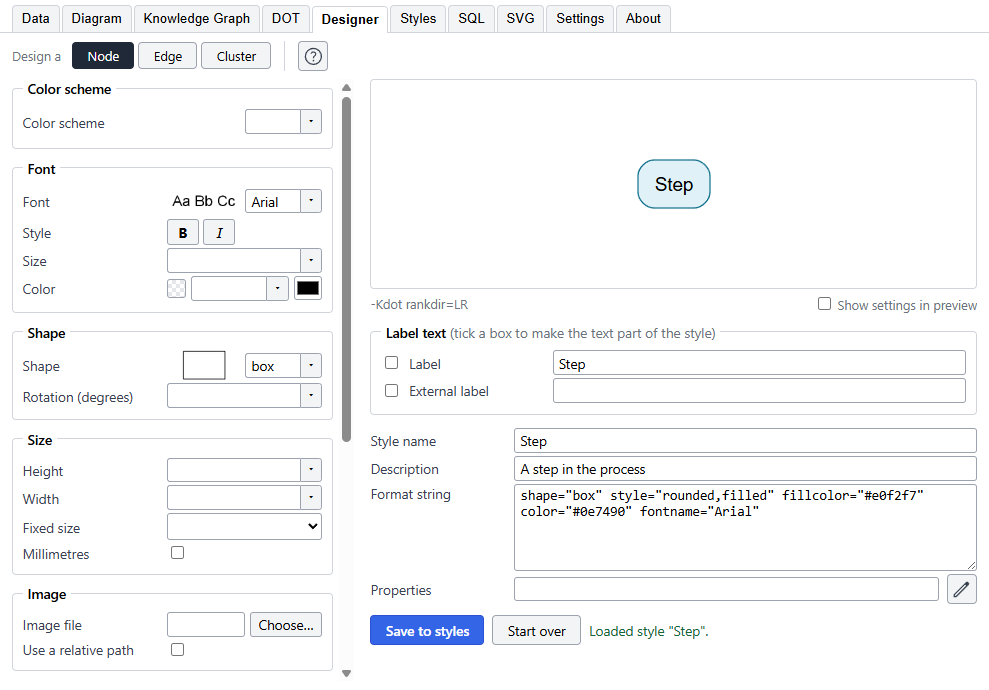
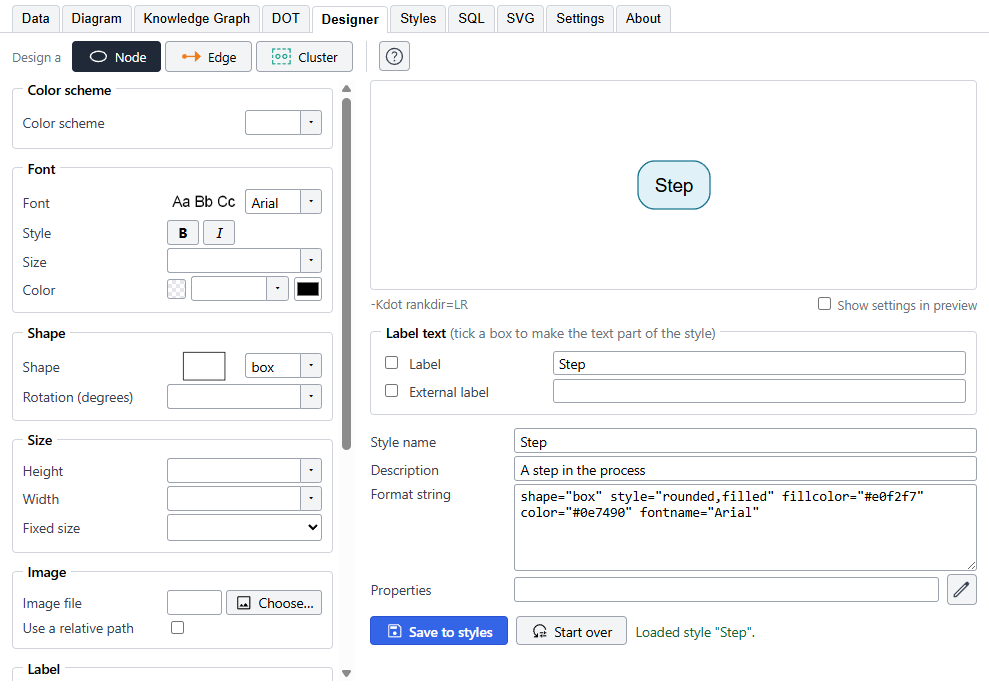
Add Units and packing and What's new, retake the screen prints, and point Download at beta 2

diff --git a/content/docs/units-and-packing/index.md b/content/docs/units-and-packing/index.md
@@ -1,0 +1,77 @@
+# Units and packing
+
+Two things that were settled in the Excel tool by one box and one corner of the Designer are now settings of the whole project: whether lengths are in
+inches or millimeters, and how the separate parts of a graph are packed.
+
+## Units
+
+Graph Modeler shows and takes a length in **inches** or **millimeters** (spelled millimetres in most countries other than the United States, and the app
+follows your region). It is used wherever you choose or type a length:
+
+- the **Height** and **Width** of a node in the [Designer](/docs/designer/);
+- the **space between separate parts** of a graph, under [Settings](/docs/settings/), in the options of the layout; and
+- the **Margin** between packed clusters in a cluster style for the osage layout.
+
+There are two settings, in the **Units** group of the Settings tab:
+
+| Setting | Where it is kept | What it does |
+| --- | --- | --- |
+| **Units for this project** | In the project file. | The unit the lists and boxes use for this project. A file says which unit its author worked in, so a colleague who opens it sees what you saw. |
+| **Units for new projects** | On this computer, not in the project. | The unit a new project starts in. You set it once and it is remembered. The first time the app runs it is chosen from your region: inches in the United States, Liberia and Myanmar, millimeters elsewhere. |
+
+If you open a file whose unit is not the one you prefer, the file's unit is used, and a notice under the project name offers to **switch** the project to yours or
+to **keep** it. Switching can be undone. Opening a file never marks it as changed. A file with no unit in it, such as one saved before there were units or one exported from
+the Excel tool, takes your preference, and keeps it from then on.
+
+### What changes, and what does not
+
+A unit decides only how a number is shown and typed. Graphviz works in inches for the size of a node, and in whole points (72 to the inch) for the space between
+packed parts, and that is what the project file and the DOT hold, whichever unit you work in. So:
+
+- Changing the unit of a project does not change a graph. A node 0.5 inches high is 12.7 millimeters high, and the Designer converts the number it shows.
+- A length typed in millimeters is written to the format in inches, to four decimal places.
+- A gap between packed parts is a whole number of points, so it can be as much as 0.18 millimeter from what you chose. A gap that is a whole number of
+  millimeters is shown as that number.
+
+## Packing
+
+A graph often falls into **parts**, groups of nodes joined to each other and to nothing else. Graphviz lays out each part by itself and then **packs** them together.
+Every layout except **patchwork**, which draws a treemap, can do this. In the **dot** layout the parts sit side by side in a row until you ask for packing, and the other layouts pack
+the parts unless told otherwise.
+
+Under **Settings**, in **Options for the** *layout* **layout**, three settings control it:
+
+| Setting | What it does |
+| --- | --- |
+| **Space between separate parts (pack)** | The gap between the parts, listed in your unit from 0 to 2 inches in eighths, or from 0 to 50 millimeters. In the dot layout choosing a gap turns packing on. The other layouts pack already, and this sets the gap. Left at the default, Graphviz uses 8 points. |
+| **Pack mode** | How the parts are fitted together, below. Choosing one turns packing on, whether or not a gap is chosen. |
+| **Array packing options** | Used when the pack mode is **array**, below. |
+
+The gap and the mode do not depend on each other. Either alone is enough.
+
+### Pack modes
+
+- **node** (the default): the parts are packed by the shapes of their nodes and edges, as close as they can be without overlapping.
+- **clust**: the clusters at the top level are kept whole.
+- **graph**: each part is treated as a box, the smallest rectangle that holds it.
+- **array**: the parts are placed in a grid, a row at a time. By default the number of columns is about the square root of the number of parts, the biggest part comes first,
+  and a part that is smaller than its cell is centered.
+
+The **array packing options** are letters and a number, written one after another:
+
+| Write | Meaning |
+| --- | --- |
+| `c` | Fill the columns first instead of the rows. |
+| `t` or `b` | Line the parts up along the top or the bottom of their cells. |
+| `l` or `r` | Line the parts up along the left or the right. |
+| `u` | Order the parts by the `sortv` attribute you give each one, with zero for a part that has none, instead of by size. |
+| `i` | Keep the order the parts were written in. |
+| a number | How many parts to a row, or to a column if `c` is given. |
+
+For example `c3tl` fills columns first, three to a column, with the parts aligned to the top and the left.
+
+### The osage layout and clusters
+
+The osage layout packs the inside of each cluster as well as the whole graph, so it is the one layout that reads these settings in a cluster. In the Designer, a cluster style
+made for osage has a **Packing (osage layout)** group with the **Margin** between the packed parts and the **Pack mode**, in the same units. Every other layout ignores them in a cluster,
+and uses the settings of the whole graph.

diff --git a/content/download/index.md b/content/download/index.md
@@ -7,16 +7,16 @@ warn the first time you open it. Using it while it is in testing is free; the [l
 
 ## Get the beta
 
-This is version 0.1.0, beta 1.
+This is version 0.1.1, beta 2. See [what is new](/docs/changelog/) since beta 1.
 
 | Your computer | Download | Size |
 | --- | --- | --- |
-| **Windows** 10 or 11, 64-bit | [Graph-Modeler-Setup-0.1.0.exe](https://github.com/graphmodeler/graphmodeler-releases/releases/download/v0.1.0-beta.1/Graph-Modeler-Setup-0.1.0.exe) | 121 MB |
-| **macOS** 13 or later, Intel or Apple silicon | [Graph-Modeler-0.1.0-universal.dmg](https://github.com/graphmodeler/graphmodeler-releases/releases/download/v0.1.0-beta.1/Graph-Modeler-0.1.0-universal.dmg) | 233 MB |
-| **Linux**, 64-bit, Debian, Ubuntu and relatives | [graph-modeler_0.1.0_amd64.deb](https://github.com/graphmodeler/graphmodeler-releases/releases/download/v0.1.0-beta.1/graph-modeler_0.1.0_amd64.deb) | 101 MB |
-| **Linux**, 64-bit, anything else | [Graph-Modeler-0.1.0.AppImage](https://github.com/graphmodeler/graphmodeler-releases/releases/download/v0.1.0-beta.1/Graph-Modeler-0.1.0.AppImage) | 128 MB |
+| **Windows** 10 or 11, 64-bit | [Graph-Modeler-Setup-0.1.1.exe](https://github.com/graphmodeler/graphmodeler-releases/releases/download/v0.1.1-beta.2/Graph-Modeler-Setup-0.1.1.exe) | 121 MB |
+| **macOS** 13 or later, Intel or Apple silicon | [Graph-Modeler-0.1.1-universal.dmg](https://github.com/graphmodeler/graphmodeler-releases/releases/download/v0.1.1-beta.2/Graph-Modeler-0.1.1-universal.dmg) | 233 MB |
+| **Linux**, 64-bit, Debian, Ubuntu and relatives | [graph-modeler_0.1.1_amd64.deb](https://github.com/graphmodeler/graphmodeler-releases/releases/download/v0.1.1-beta.2/graph-modeler_0.1.1_amd64.deb) | 100 MB |
+| **Linux**, 64-bit, anything else | [Graph-Modeler-0.1.1.AppImage](https://github.com/graphmodeler/graphmodeler-releases/releases/download/v0.1.1-beta.2/Graph-Modeler-0.1.1.AppImage) | 128 MB |
 
-The [release page](https://github.com/graphmodeler/graphmodeler-releases/releases/tag/v0.1.0-beta.1) holds the same files and a list of
+The [release page](https://github.com/graphmodeler/graphmodeler-releases/releases/tag/v0.1.1-beta.2) holds the same files and a list of
 checksums, so that you can check what you downloaded. Install [Graphviz](#install-graphviz) too, to see pictures. Check the
 [system requirements](#system-requirements) first: Graph Modeler needs a 64-bit computer.
 
@@ -26,12 +26,12 @@ checksums, so that you can check what you downloaded. Install [Graphviz](#instal
 - **macOS.** Open the `.dmg` and drag Graph Modeler to Applications. The first time you open it, macOS refuses. Open **System Settings, Privacy &
   Security**, scroll to the message about Graph Modeler, and choose **Open Anyway**.
 - **Linux, the `.deb`** (Debian, Ubuntu and relatives).
-  - Install it with `sudo apt install ./graph-modeler_0.1.0_amd64.deb`.
+  - Install it with `sudo apt install ./graph-modeler_0.1.1_amd64.deb`.
   - apt may end with a note that the file "couldn't be accessed by user `_apt`". That is harmless. It only means apt read the file as root,
     because your Downloads folder is private.
   - The program appears in the Programming group of the applications menu.
 - **Linux, the AppImage.**
-  - Make it executable with `chmod +x Graph-Modeler-0.1.0.AppImage`, then run it.
+  - Make it executable with `chmod +x Graph-Modeler-0.1.1.AppImage`, then run it.
   - A recent Ubuntu also needs `sudo apt install libfuse2t64`.
 
 ### Taking it off again

diff --git a/content/docs/changelog/index.md b/content/docs/changelog/index.md
@@ -1,0 +1,37 @@
+# What's new
+
+What each version of Graph Modeler changed, newest first. Graph Modeler is in beta, so the version numbers are small and the changes are many. The installers for each are on the
+[Download](/download/) page. Where a change is explained on a page of its own, there is a link.
+
+## Version 0.1.1, beta 2 (October 27, 2026)
+
+**New**
+
+- **A warning before you lose work.** Closing the window, by Exit, the close button or Alt+F4, when the project has changes that are not saved now asks whether to
+  **Save and close**, **Close without saving** or **Cancel**. If you cancel the Save As window that Save and close opens, the app stays open.
+- **Units.** Lengths are shown and typed in inches or millimeters, as a setting of the project and a preference of yours for new projects. The unit is chosen from your region the
+  first time, and the word is spelled the way your region spells it. The Millimetres box of the Designer is gone, because the project now holds the unit. See
+  [Units and packing](/docs/units-and-packing/#units).
+- **Packing for every layout except patchwork.** The space between separate parts of a graph and the pack mode are settings of the whole graph, with all four pack modes
+  (node, clust, graph and array) and the options of array packing. The gap is listed in your unit, and goes up to 2 inches or 50 millimeters. See
+  [Units and packing](/docs/units-and-packing/#packing).
+- **Icons before the words on buttons.** The Designer's Node, Edge and Cluster switch has a small picture of each, in the colors of the Kind column on the Data tab, and so do the
+  buttons that save, cancel, copy, choose a file, start over and answer the notice about units. The words are still there.
+- **System requirements** on the [Download](/download/#system-requirements) page: a 64-bit computer, and macOS 13 or later.
+
+**Changed**
+
+- **The pictures for the head port and the tail port** are redrawn as SVG, so they stay sharp on any screen: a circle in the middle, with an arrow that arrives at one of its compass
+  points, or leaves from it. They are listed clockwise from north, then the center.
+- **The pack mode and the gap** in a cluster style for the osage layout use your unit, and the pack mode offers node and graph as well as clust and array.
+
+**Fixed**
+
+- The pack modes `node` and `graph` made Graphviz stop with a syntax error, because DOT keeps those words for itself. They are written in quotes now.
+- A style restored into the Designer in millimeters is converted, so its height and width read the same size.
+
+## Version 0.1.0, beta 1 (October 26, 2026)
+
+The first beta, for Windows, macOS and Linux. It holds the Data, Diagram, Knowledge Graph, DOT, Designer, Styles, SQL, SVG, Settings and About tabs, builds the SQL rows from
+Excel and LibreOffice workbooks, CSV and TSV files, Access databases and SQLite databases, and publishes pictures, Knowledge Graphs and DOT files. It opens files exported from the
+Excel tool. See [Download](/download/) for what it runs on.

diff --git a/content/docs/designer/index.md b/content/docs/designer/index.md
@@ -9,7 +9,7 @@ lets you choose them from menus, shows the result as you go, and writes the form
 
 ## Using it
 
-1. Choose what you are designing with **Node**, **Edge** or **Cluster** at the top. Only the choices that apply to it are shown.
+1. Choose what you are designing with **Node**, **Edge** or **Cluster** at the top, each with a small picture of what it is. Only the choices that apply to it are shown.
 2. Pick values on the left. The preview on the right is drawn by Graphviz after every change, and the **Format string** below
    it shows what is being written.
 3. Give the style a **Style name** and, if you like, a **Description**.
@@ -31,6 +31,11 @@ The choices are in groups, and the ones that do not apply to what you are design
   from a set, such as one of the ColorBrewer palettes, so a diagram can use a palette from one choice.
 - **Shape** and **Font** show a small picture of each choice in their lists. The fonts are the ones installed on your computer; see
   [Fonts](/docs/fonts/) for how they are found and what to do after installing one.
+- **Height** and **Width** take a length in the unit of the project, inches or millimeters, which is set under [Settings](/docs/settings/). See
+  [Units and packing](/docs/units-and-packing/#units).
+- **Head port** and **Tail port** show a picture of each choice: a circle for the node and an arrow that arrives at, or leaves from, one of its compass points. They are listed clockwise
+  from north, then the center, and the default, `_`, leaves the choice to Graphviz.
+- **Packing (osage layout)** is offered for a cluster when the layout is osage. See [Units and packing](/docs/units-and-packing/#the-osage-layout-and-clusters).
 - **Position** choices, such as where a label sits in a cluster, are buttons with an icon: vertical position first, then
   horizontal. A second press on the chosen button clears it.
 - **Properties** are facts about the style that do not change the drawing but go into the Knowledge Graph.

diff --git a/content/docs/settings/index.md b/content/docs/settings/index.md
@@ -24,6 +24,17 @@ This group is named after the layout in use, such as "Options for the dot layout
 
 - **dot:** edges between clusters, the newer ranking, how clusters are ranked, and the order of the edges out of or into a node.
 - **neato, fdp and sfdp:** how overlapping nodes are moved apart, the dimensions, and for some of them the mode, the model and the smoothing.
+- **Every layout except patchwork:** the **space between separate parts**, the **pack mode** and the **array packing options**, which say how the parts of a graph that are not joined are fitted
+  together. See [Units and packing](/docs/units-and-packing/#packing).
+
+## Units
+
+| Setting | What it does |
+| --- | --- |
+| **Units for this project** | Inches or millimeters, for the lists and boxes that take a length. Saved in the project file. |
+| **Units for new projects** | The unit a new project starts in. Kept on this computer, not in the project, and chosen from your region the first time. |
+
+See [Units and packing](/docs/units-and-packing/#units) for what changes when a unit changes, and what happens when a file is in other units than yours.
 
 ## Cluster style names
 

diff --git a/content/docs/from-excel/index.md b/content/docs/from-excel/index.md
@@ -42,6 +42,9 @@ Some of this is on purpose: where the Excel tool did something only because it l
   that holds a project does not exist here, and MySQL and Postgres are not supported yet.
 - **Publishing** has a template for the file name, with a date and time or a counter, in place of the Excel tool's switches. The files it writes are
   listed in the left pane, and nothing is opened for you.
+- **Units** are a setting of the project, inches or millimeters, in place of the Millimetres box of the node designer. The file says which it uses, and the
+  [lengths in the Designer and the packing settings](/docs/units-and-packing/) follow it.
+- **Packing** is a setting of the whole graph, for every layout except patchwork, in place of a cluster style for osage only. The pack mode has all four choices, not two.
 - **Graph type and direction** are the buttons on the Diagram tab. `PREVIEW AS DIRECTED GRAPH` and `PREVIEW AS UNDIRECTED GRAPH` in a script are
   read and ignored.
 - **Some things are gone**: the buttons for GVEdit and for external web viewers, the option to keep the `.gv` file, the Extensions and

diff --git a/content/docs/index.md b/content/docs/index.md
@@ -39,8 +39,10 @@ The tabs are in the order they are in the app.
 
 - [Placeholders](/docs/placeholders/): the words in braces, such as `{label}` and `{rsc}`, that are replaced in labels and in SQL, and how to make your own.
 - [Publishing](/docs/publishing/): how a file name is built from the prefix, the template, the counter and the style, and what Publish will not write over.
+- [Units and packing](/docs/units-and-packing/): inches or millimeters for the lengths you type, and how the separate parts of a graph are packed together.
 - [Fonts](/docs/fonts/): how the app finds the fonts on your computer, what to do after installing one, and what happens to it in a shared picture.
 - [Coming from the Excel tool](/docs/from-excel/): for people who know Relationship Visualizer, also called Excel to Graphviz.
+- [What's new](/docs/changelog/): what each version changed.
 
 ## What you need
 
